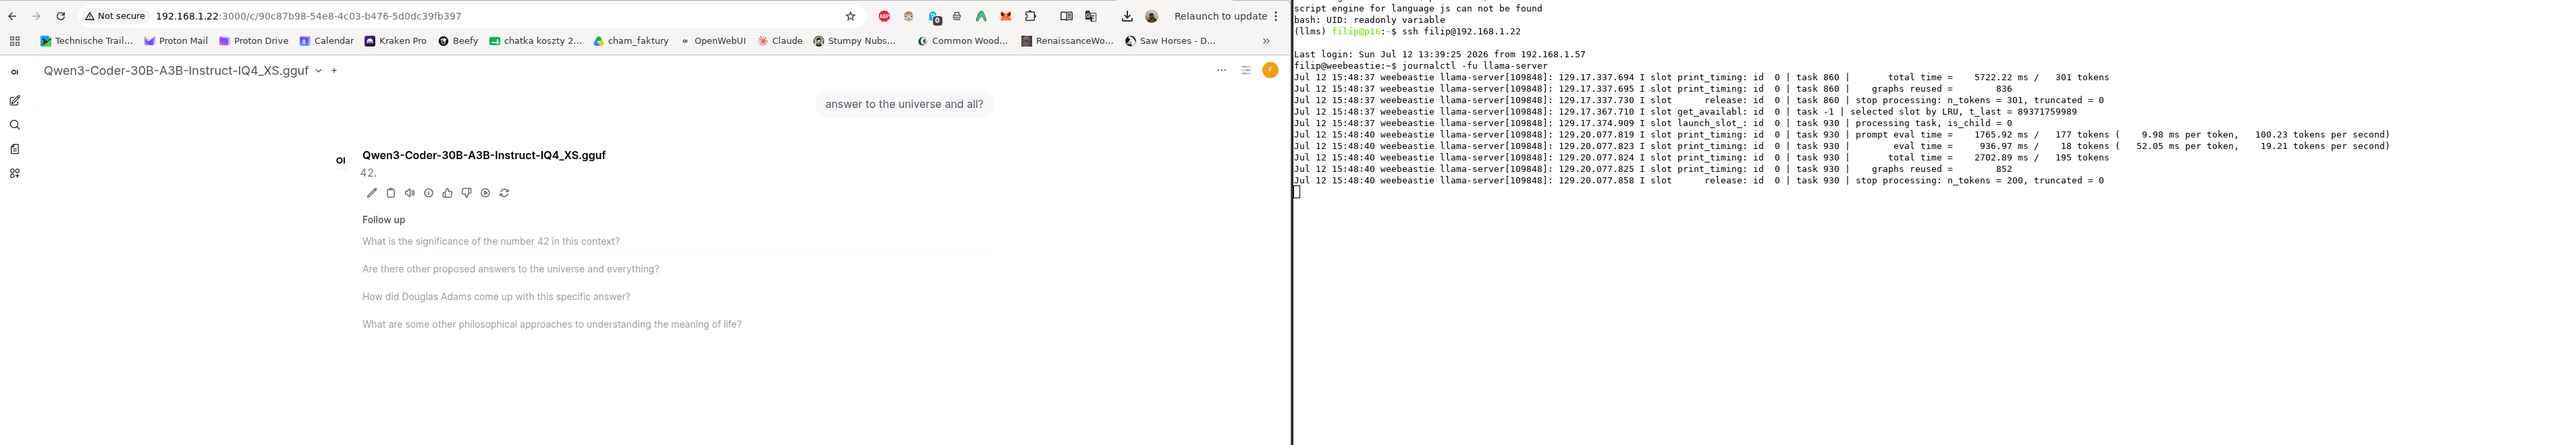
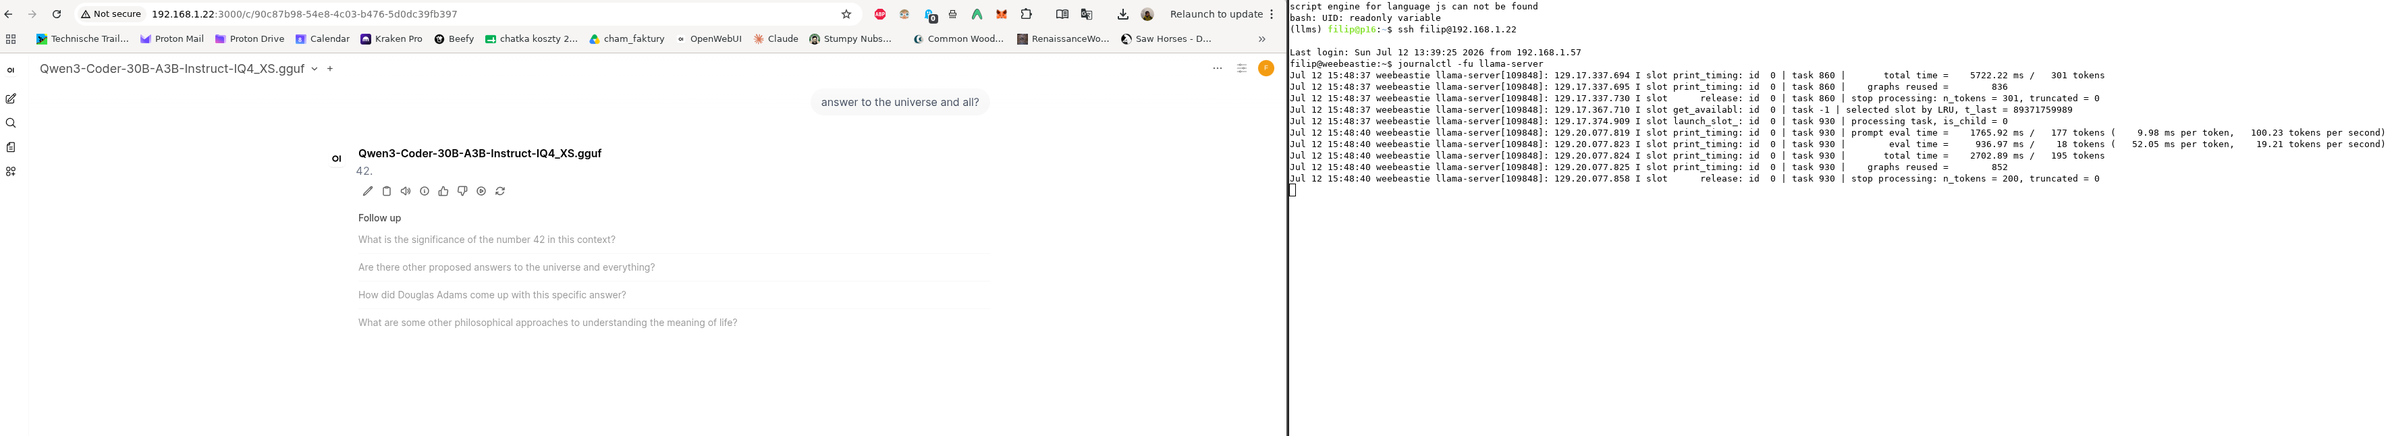
edit image add permalink

diff --git a/_posts/2026-07-12-household-chat-and-rag-mcp.md b/_posts/2026-07-12-household-chat-and-rag-mcp.md
@@ -67,7 +67,7 @@ Only `:3000` faces the LAN. `:8082` (MCP), `:6334` (Qdrant) and `:8080` (the mod
 The household model needs a way to decide whether a message even needs the RAG.
 <!-- Retrieving on a question the model already knows is not free -- the grounding prompt then forces "I don't know" onto an answerable question. So the routing decision matters. -->
 
-Both paths start from the same artefact: a small **decision tree expressed as JSON**, versioned and auditable, whose node questions are natural language the model evaluates ("Is the user asking a substantive question about the content or positions of EMPL/REGI/IMCO committee documents?").
+Both paths start from the same artefact: a small [decision tree expressed as JSON](https://github.com/fbielejec/local-harness/blob/88f800016736fe18778404b0ff48fab99913e35e/rag/data/route_tree.json), versioned and auditable, whose node questions are natural language the model evaluates ("Is the user asking a substantive question about the content or positions of EMPL/REGI/IMCO committee documents?").
 Two ways to consume it are:
 
 - **Mode A -- native tool-calling.** Hand the model the tree as policy plus a `search_ep_committee_docs` tool, and let it emit a `tool_call` when it decides to ground. One turn.
